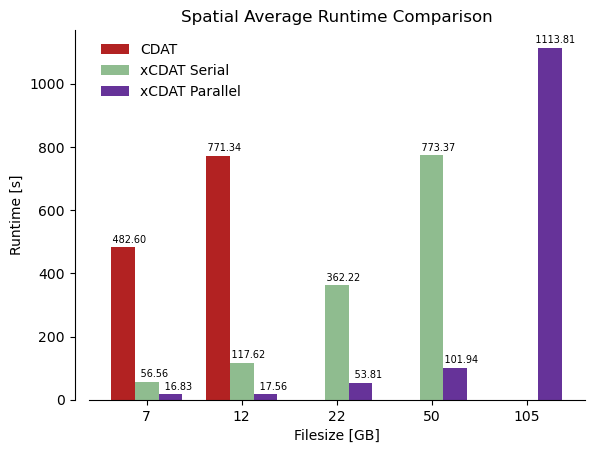
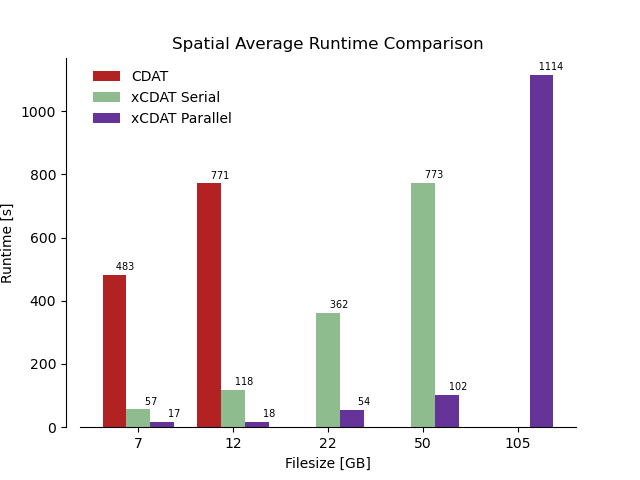
Update plot

Changed region(s): [[0.0, 0.0, 0.9697, 0.989]]

diff --git a/scripts/11-9-23-steve-joss-paper/vo_xarray.py b/scripts/11-9-23-steve-joss-paper/vo_xarray.py
@@ -9,20 +9,23 @@ dpath = (
 ds = xr.open_mfdataset(dpath + "*.nc")
 
 # 2. Calculate monthly departures.
-ts_monthly = ds.ts.groupby("time.month")  # group by months
-ts_monthly_clim = ts_monthly.mean(dim="time")  # calculate climatology
-ts_anom = ts_monthly - ts_monthly_clim  # difference to determine anomalies
+ts_mon = ds.ts.groupby("time.month")
+ts_mon_clim = ts_mon.mean(dim="time")
+ts_anom = ts_mon - ts_mon_clim
 
 # 3. Compute global average.
 coslat = np.cos(np.deg2rad(ds.lat))
-ts_anom_weighted = ts_anom.weighted(coslat)
-ts_anom_global = ts_anom_weighted.mean(dim="lat").mean(dim="lon")
+ts_anom_wgt = ts_anom.weighted(coslat)
+ts_anom_global = ts_anom_wgt.mean(dim="lat").mean(dim="lon")
 
-# 4. Calculate annual averages
-# Source: https://ncar.github.io/esds/posts/2021/yearly-averages-xarray/
-month_len = ts_anom_global.time.dt.days_in_month
-month_len_by_year = month_len.groupby("time.year")
-wgts = month_len_by_year / month_len_by_year.sum()
-temp_sum = (ts_anom_global * wgts).resample(time="AS").sum(dim="time")
-denominator_sum = (wgts).resample(time="AS").sum(dim="time")
-ts_anom_global_ann = temp_sum / denominator_sum
+# 4. Calculate annual averages.
+# ncar.github.io/esds/posts/2021/yearly-averages-xarray/
+mon_len = ts_anom_global.time.dt.days_in_month
+mon_len_by_year = mon_len.groupby("time.year")
+wgts = mon_len_by_year / mon_len_by_year.sum()
+
+temp_sum = ts_anom_global * wgts
+temp_sum = temp_sum.resample(time="AS").sum(dim="time")
+denom_sum = (wgts).resample(time="AS").sum(dim="time")
+
+ts_anom_global_ann = temp_sum / denom_sum

diff --git a/scripts/performance-benchmarks/spatial-avg/plot_spatial_avg_times.py b/scripts/performance-benchmarks/spatial-avg/plot_spatial_avg_times.py
@@ -8,8 +8,8 @@ import pandas as pd
 
 # %% Get the CSV data into DataFrames.
 ROOT_PATH = "./scripts/performance-benchmarks/spatial-avg/"
-xcdat_csv_path = os.path.join(ROOT_PATH, "20231115-092731-xcdat-runtimes.csv")
-cdat_csv_path = os.path.join(ROOT_PATH, "20231115-092731-cdat-runtimes.csv")
+xcdat_csv_path = os.path.join(ROOT_PATH, "20240102-135850-xcdat-runtimes.csv")
+cdat_csv_path = os.path.join(ROOT_PATH, "20240102-135850-cdat-runtimes.csv")
 
 
 df_xcdat = pd.read_csv(xcdat_csv_path)
@@ -69,13 +69,13 @@ ax.xaxis.set_ticks_position("bottom")
 # The base bar label configuration passed to axis containers to add
 # the floating point labels above the bars.
 BAR_LABEL_CONFIG = {
-    "fmt": "{:10.2f}",
+    "fmt": "{:10.0f}",
     "label_type": "edge",
     "padding": 2,
     "fontsize": 7,
 }
 for cont in ax.containers:
-    labels = ["{:10.2f}".format(v) if v > 0.00 else "" for v in cont.datavalues]
+    labels = ["{:10.0f}".format(v) if v > 0.00 else "" for v in cont.datavalues]
     ax.bar_label(cont, **BAR_LABEL_CONFIG, labels=labels)
 
 # %% Save the figure
